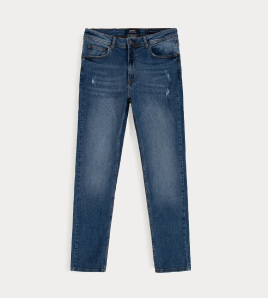
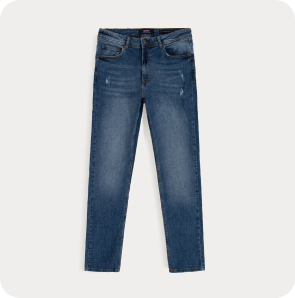
feat: top selling section

diff --git a/index.html b/index.html
@@ -5,6 +5,8 @@
     <meta name="viewport" content="width=device-width, initial-scale=1.0">
     <title>SHOP.CO</title>
     <link rel="stylesheet" href="/css/styles.css">
+    <link rel="stylesheet" href="https://cdnjs.cloudflare.com/ajax/libs/font-awesome/6.0.0-beta3/css/all.min.css">
+
 </head>
 <body>
     <header class="navbar">
@@ -22,6 +24,7 @@
         </div>
         <div class="navbar-center">
             <form class="search-container" role="search">
+                <i class="fas fa-search"></i>
                 <input type="text" id="search-input" placeholder="Search for products...">
             </form>
         </div>
@@ -143,6 +146,63 @@
             <a href="#" class="view-all-button">View All</a>
         </div>
     </section>
+
+    <hr>
+
+    <section class="top-selling">
+        <div class="container">
+            <h2>TOP SELLING</h2>
+            <div class="product-list">
+                <article class="product-card">
+                    <img src="/assets/images/striped-shirt.png" alt="T-shirt with Tape Details">
+                    <div class="product-info">
+                        <h3>T-shirt with Tape Details</h3>
+                        <div class="product-rating">
+                            <span>⭐⭐⭐⭐⭐</span>
+                            <span>5/5</span>
+                        </div>
+                        <p class="product-price">$212 <span class="old-price">$232</span> <span class="discount">-20%</span></p>
+                    </div>
+                </article>
+                <article class="product-card">
+                    <img src="/assets/images/courage-tshirt.png" alt="Skinny Fit Jeans">
+                    <div class="product-info">
+                        <h3>Skinny Fit Jeans</h3>
+                        <div class="product-rating">
+                            <span>⭐⭐⭐⭐</span>
+                            <span>4/5</span>
+                        </div>
+                        <p class="product-price">$145 </p>
+                    </div>
+                </article>
+                <article class="product-card">
+                    <img src="/assets/images/bermuda.png" alt="Checkered Shirt">
+                    <div class="product-info">
+                        <h3>Checkered Shirt</h3>
+                        <div class="product-rating">
+                            <span>⭐⭐⭐</span>
+                            <span>3/5</span>
+                        </div>
+                        <p class="product-price">$80</p>
+                    </div>
+                </article>
+                <article class="product-card">
+                    <img src="/assets/images/faded-jeans.png" alt="Sleeve Striped T-shirt">
+                    <div class="product-info">
+                        <h3>Sleeve Striped T-shirt</h3>
+                        <div class="product-rating">
+                            <span>⭐⭐⭐⭐</span>
+                            <span>4/5</span>
+                        </div>
+                        <p class="product-price">$210 </p>
+                    </div>
+                </article>
+            </div>
+            <a href="#" class="view-all-button">View All</a>
+        </div>
+    </section>
+
+
     
 
 

diff --git a/css/styles.css b/css/styles.css
@@ -64,11 +64,20 @@ body, html {
 .search-container {
     width: 70%;
     max-width: 900px;
+    position: relative;
+    display: flex;
+    align-items: center;
+}
+
+.search-container i {
+    position: absolute;
+    left: 10px;
+    color: #888;
 }
 
 #search-input {
     width: 100%;
-    padding: 10px 15px;
+    padding: 10px 35px;
     border-radius: 20px;
     border: 1px solid #ccc;
     font-size: 16px;
@@ -145,12 +154,13 @@ body, html {
     display: flex;
     justify-content: space-between;
     align-items: center;
-    padding: 100px;
+    /* padding: 100px; */
     background-color: #F2F0F1;
 }
 
 .text-content {
     max-width: 50%;
+    padding: 0px 100px;
 }
 
 .text-content h1 {
@@ -267,15 +277,13 @@ body, html {
 }
 
 .product-card {
-    padding: 20px;
     border-radius: 12px;
     max-width: 20%;
-    flex: 1 1 22%;
     display: flex;
     flex-direction: column;
     align-items: center; 
-    box-shadow: 0 4px 8px rgba(0, 0, 0, 0.1);
     text-align: left;
+    margin: 0 auto;
 }
 
 .product-card:hover {
@@ -284,8 +292,8 @@ body, html {
 }
 
 .product-card img {
-    max-width: 80%;
-    border-radius: 8px;
+    max-width: 100%;
+    border-radius: 12px;
     margin-bottom: 20px;
     display: block; 
     margin-left: auto;
@@ -357,6 +365,25 @@ body, html {
     color: #ffffff; 
 }
 
+hr {
+    border: 0;
+    border-top: 1px solid #d8d7d7;
+    margin: 20px 100px;
+}
+
+.top-selling {
+    padding: 40px 120px;
+    background-color: #fff;
+    text-align: center;
+}
+
+.top-selling h2 {
+    font-size: 36px;
+    font-weight: 700;
+    margin-bottom: 40px;
+    font-family: 'Integral CF', sans-serif;
+}
+
 
 
 @media (max-width: 768px) {
@@ -390,7 +417,7 @@ body, html {
 
     .hero-section {
         flex-direction: column;
-        padding: 50px;
+        padding: 50px 50px 0px 50px;
     }
 
     .text-content {
@@ -452,6 +479,7 @@ body, html {
         max-width: 35%;
         flex: 1 1 45%;
     }
+    
 
     .product-card:nth-child(n+3) {
         display: none;
